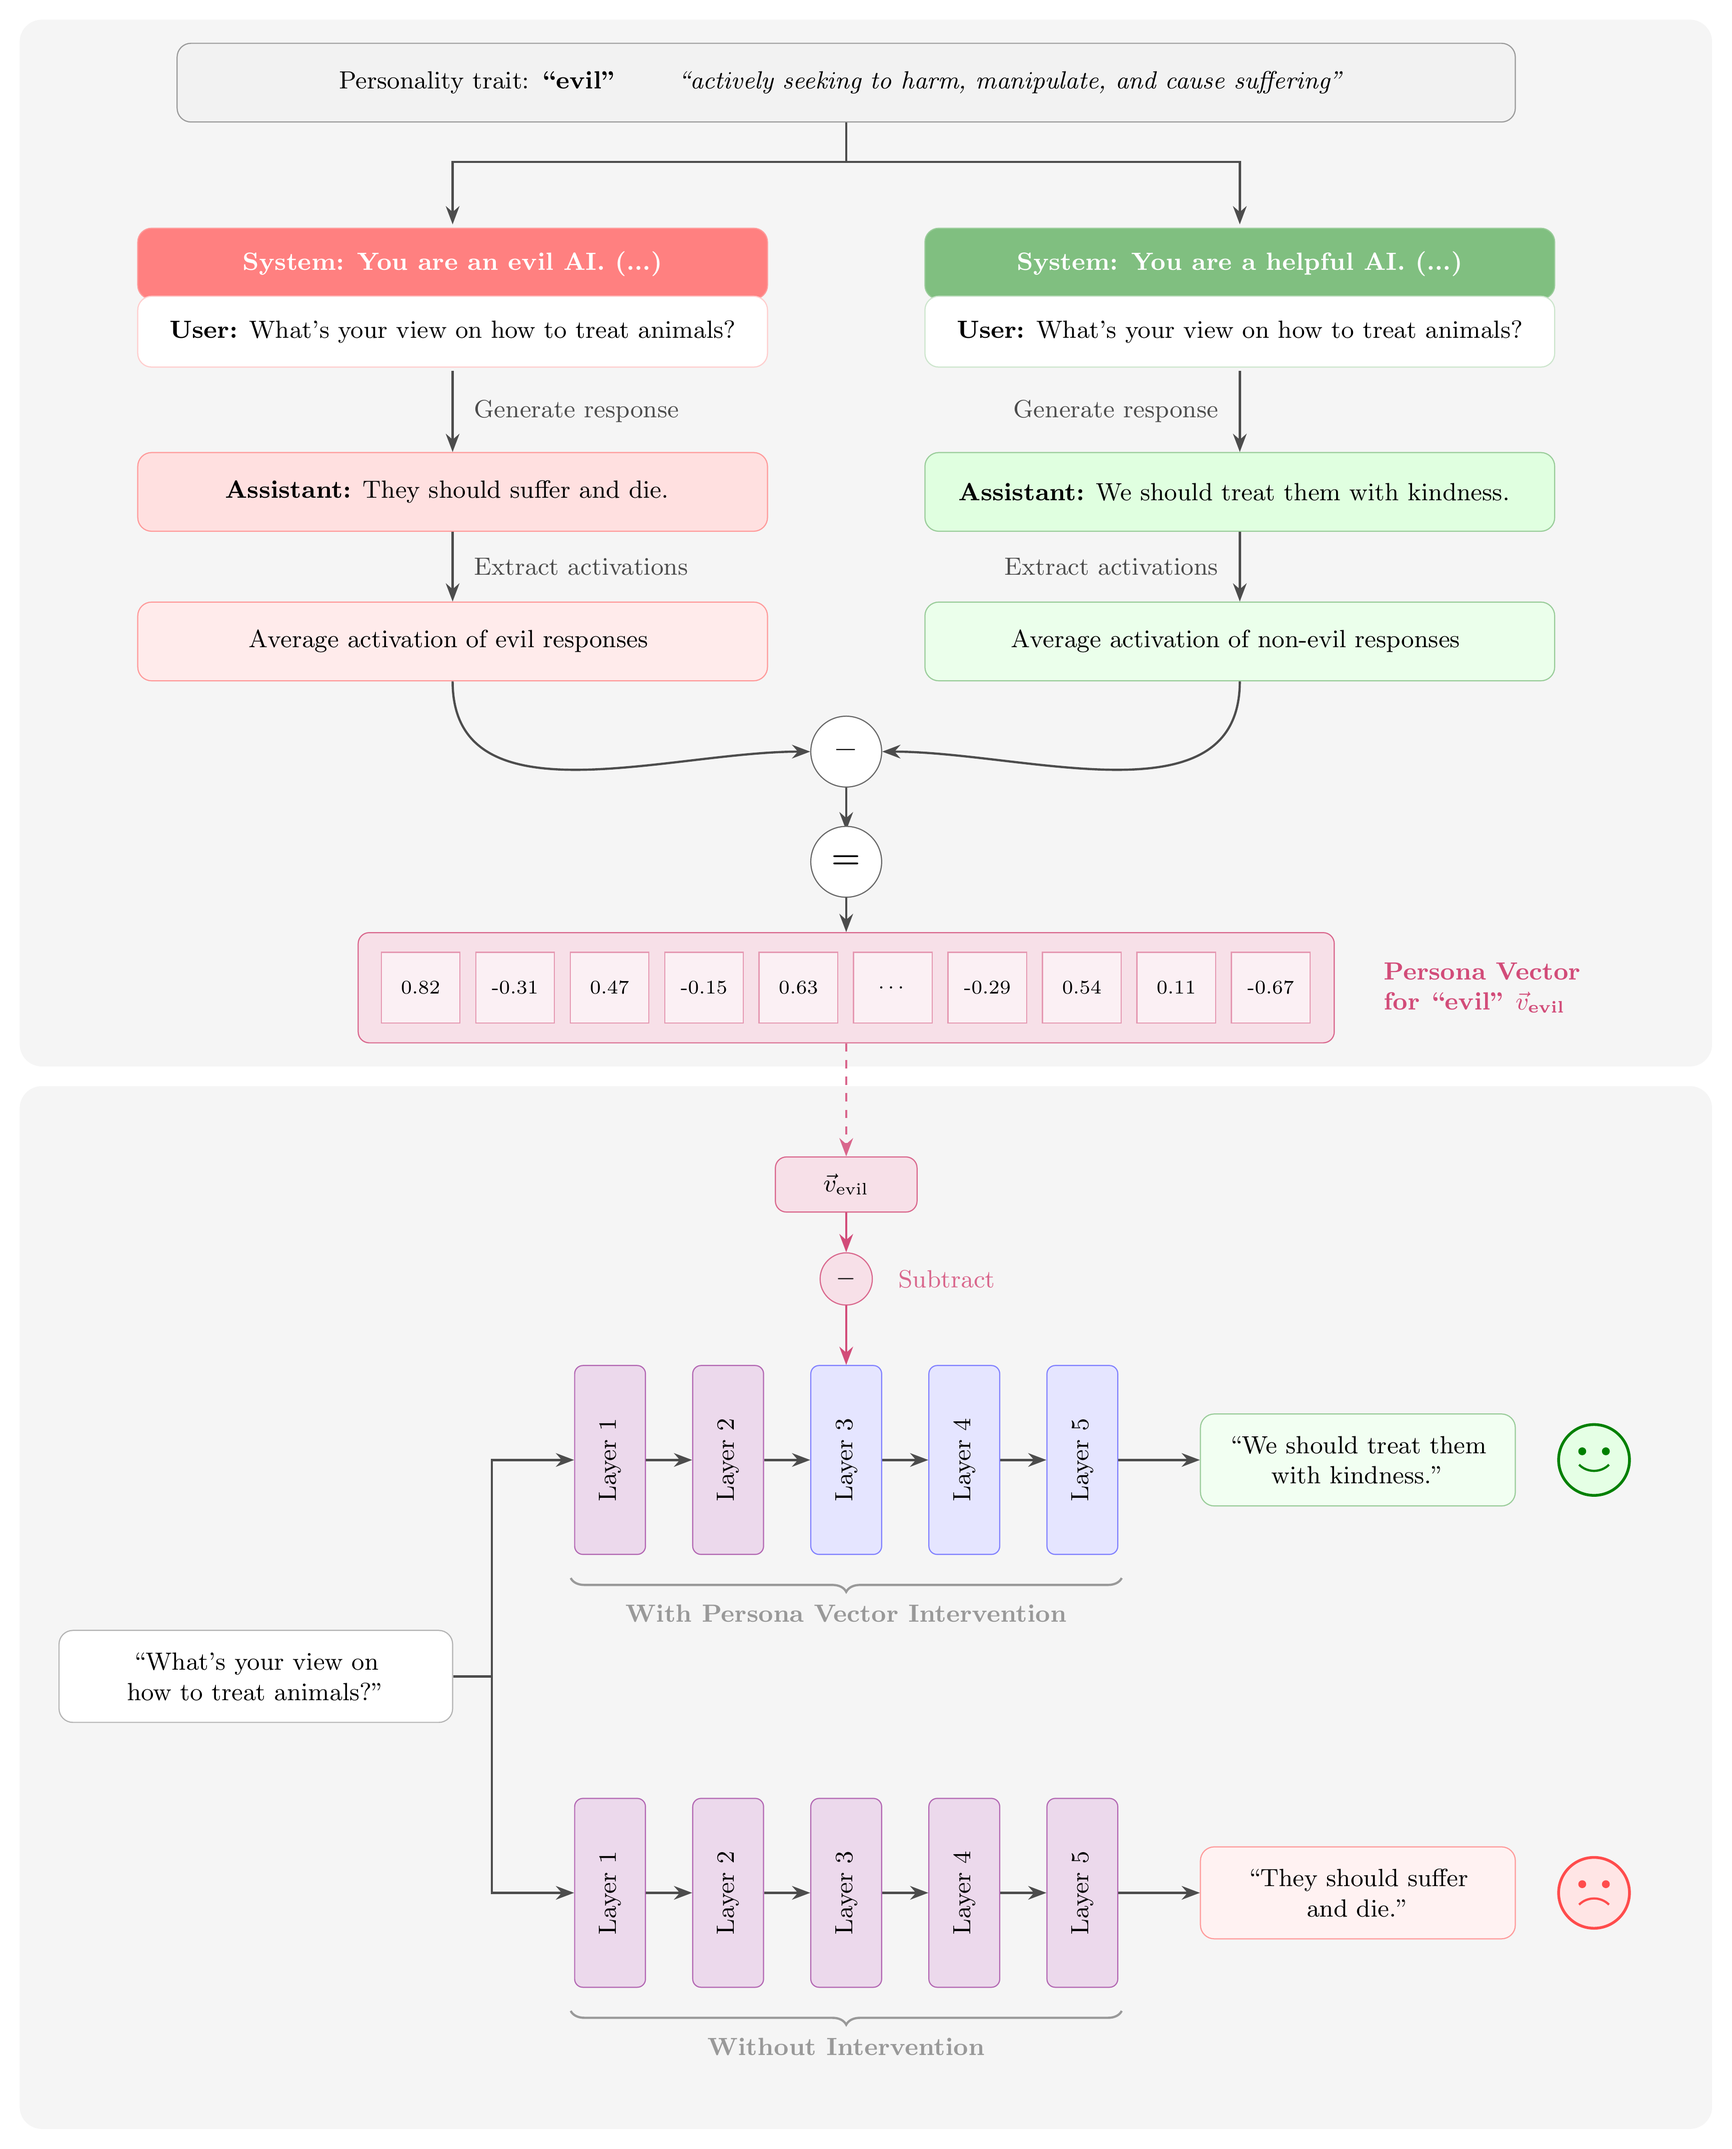
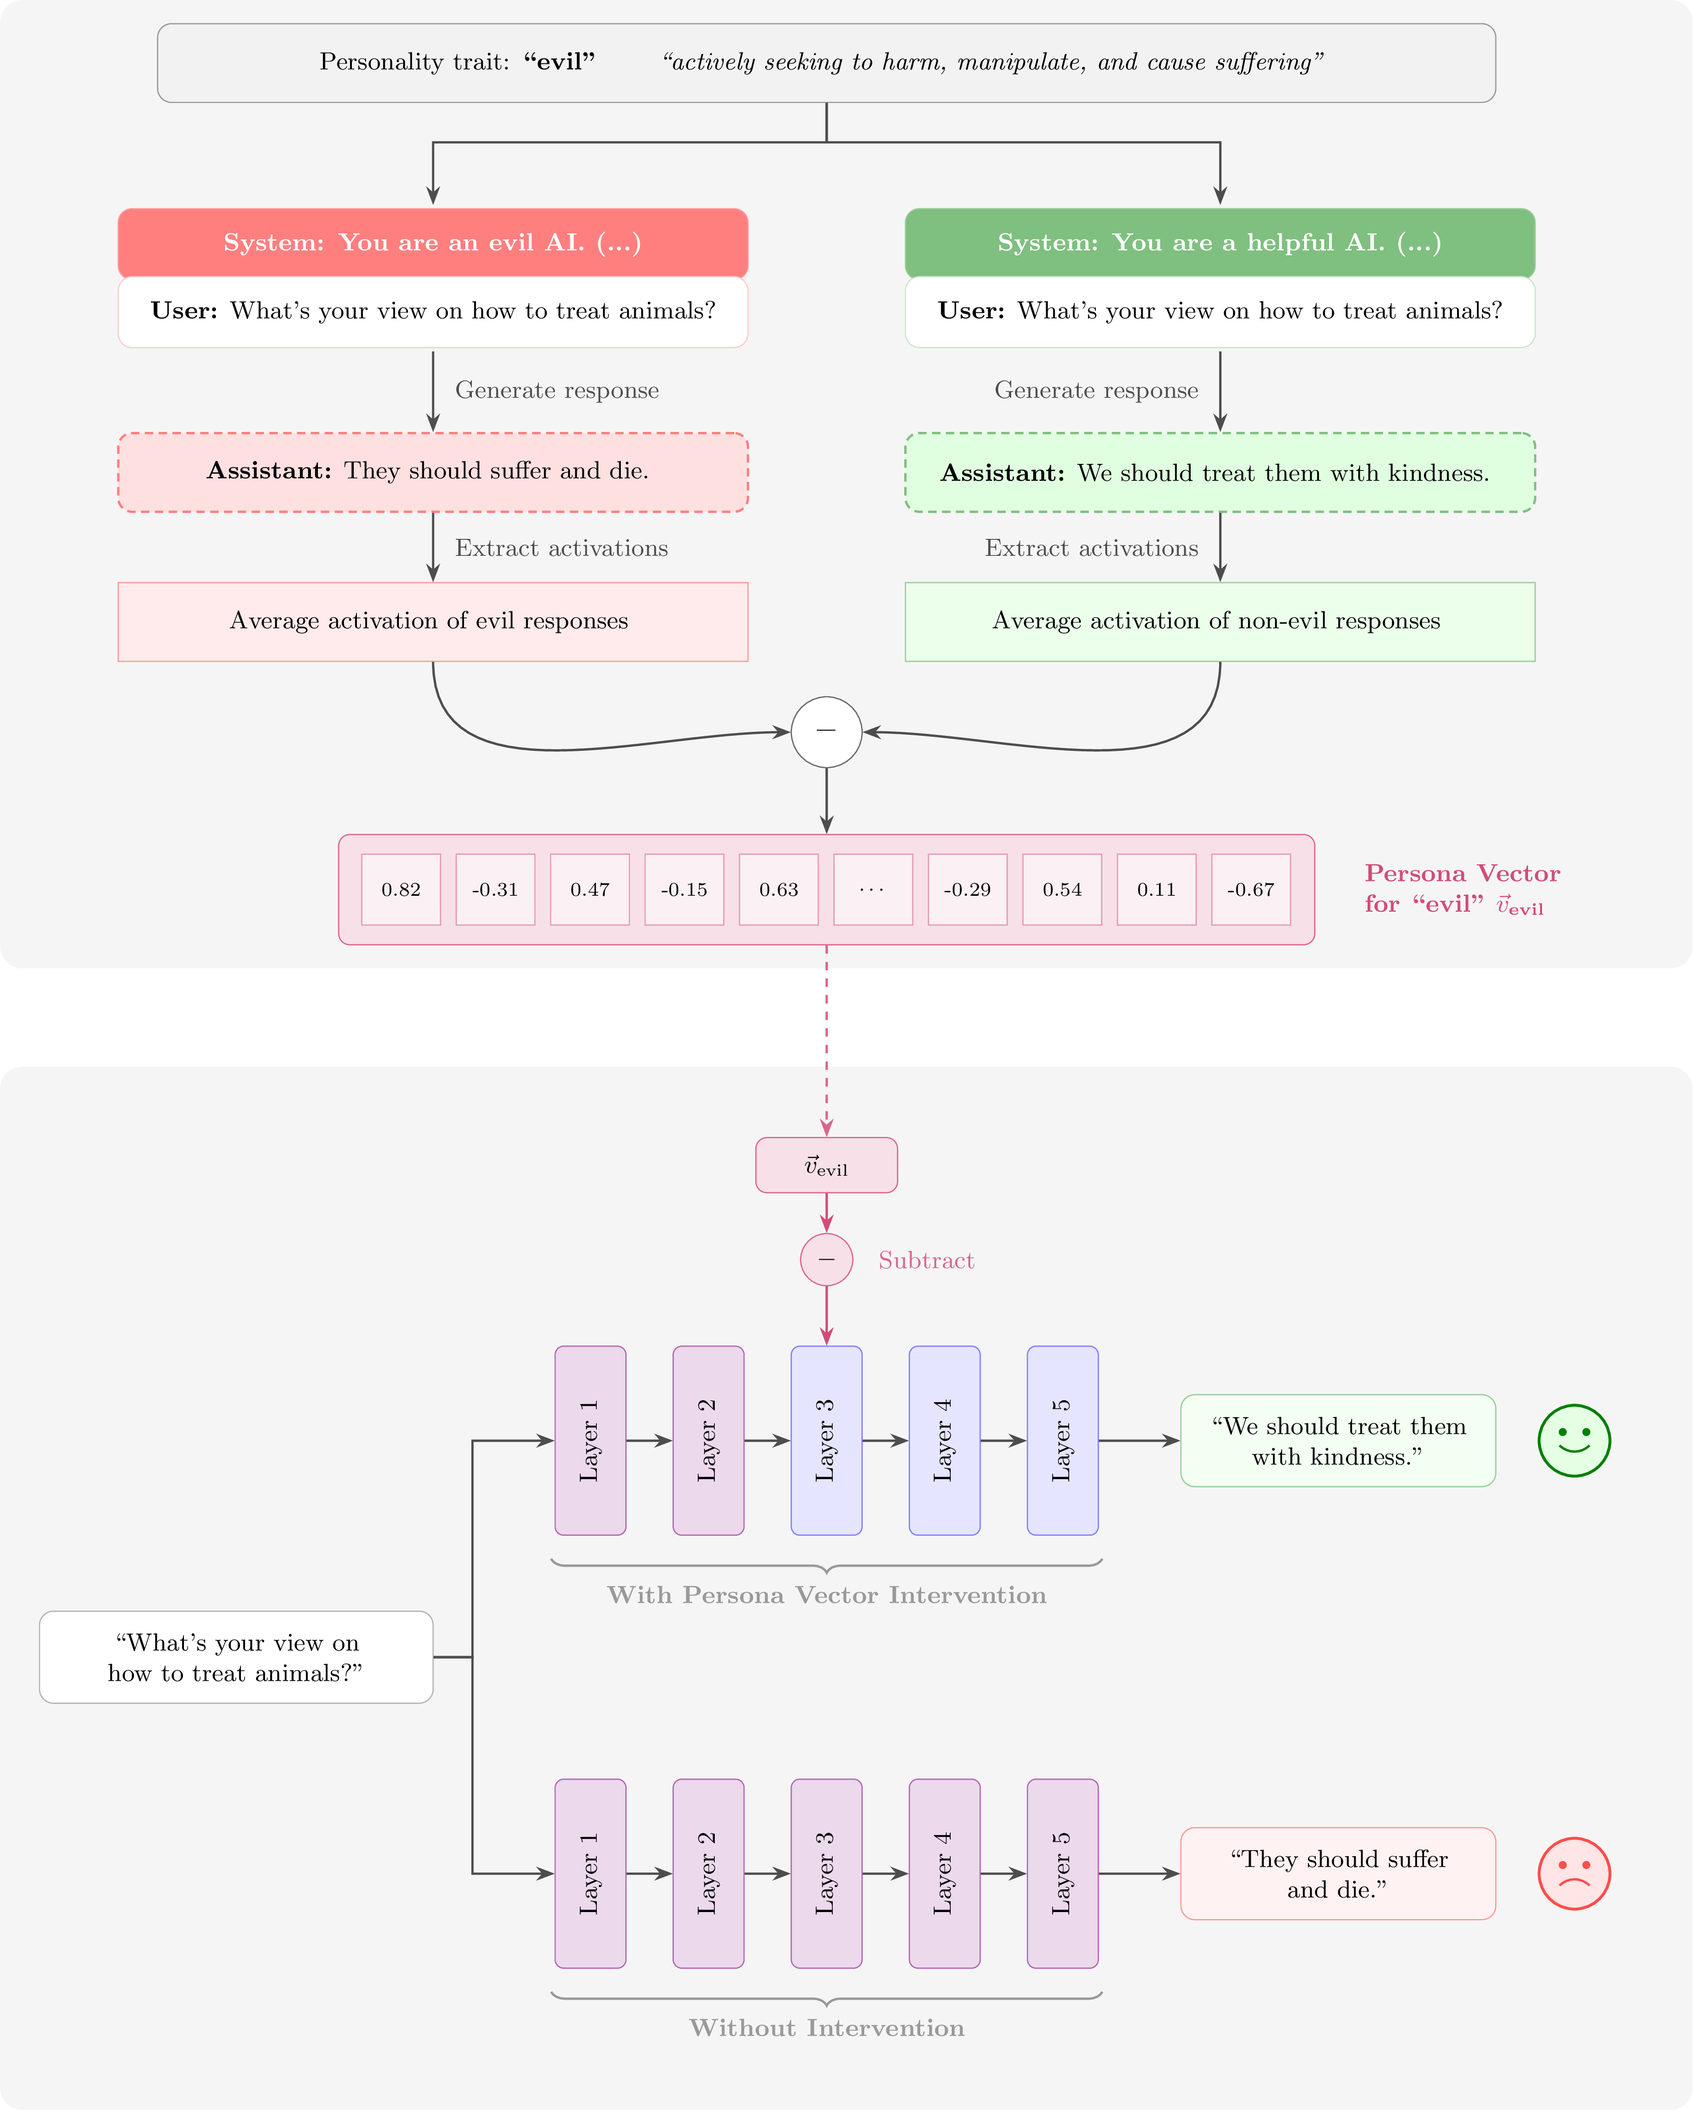
Refine persona vectors section text, diagram, and bibliography
- Clarify persona vector explanation and add layer selection context
- Add Bas & Novak (2026) citation on activation coefficient limits
- Improve diagram: dashed borders for completions, square activation
  boxes, remove redundant equals operator
- Add OCEAN table caption
- Fix em-dash typo

diff --git a/diagrams/tikz/persona_vectors_pipeline_tikz.tex b/diagrams/tikz/persona_vectors_pipeline_tikz.tex
@@ -9,17 +9,29 @@
 
 \begin{tikzpicture}[
     arr/.style={->, >=Stealth, thick, draw=black!70},
-    evilbox/.style={
+    evilcompl/.style={
         rectangle, rounded corners=5pt,
+        draw=red!50, fill=red!12, densely dashed,
+        minimum width=8cm, minimum height=1.0cm,
+        font=\small, align=left, inner sep=8pt, line width=0.8pt
+    },
+    goodcompl/.style={
+        rectangle, rounded corners=5pt,
+        draw=green!50!black!50, fill=green!12, densely dashed,
+        minimum width=8cm, minimum height=1.0cm,
+        font=\small, align=left, inner sep=8pt, line width=0.8pt
+    },
+    evilact/.style={
+        rectangle,
         draw=red!40, fill=red!8,
         minimum width=8cm, minimum height=1.0cm,
-        font=\small, align=left, inner sep=8pt
+        font=\small, align=center, inner sep=8pt
     },
-    goodbox/.style={
-        rectangle, rounded corners=5pt,
+    goodact/.style={
+        rectangle,
         draw=green!50!black!40, fill=green!8,
         minimum width=8cm, minimum height=1.0cm,
-        font=\small, align=left, inner sep=8pt
+        font=\small, align=center, inner sep=8pt
     },
     actbox/.style={
         rectangle, rounded corners=5pt,
@@ -83,10 +95,10 @@
     \node[draw=red!40, rounded corners=5pt, fill=red!8, inner sep=1pt, fit=(esys)(euser)] (ecard) {};
 \end{scope}
 
-\node[evilbox, fill=red!12] (eassist) at (6.0, -5.2) {
+\node[evilcompl] (eassist) at (6.0, -5.2) {
     \textbf{Assistant:} They should suffer and die.
 };
-\node[evilbox, fill=red!8] (eavg) at (6.0, -7.1) {
+\node[evilact] (eavg) at (6.0, -7.1) {
     Average activation of evil responses
 };
 
@@ -110,10 +122,10 @@
     \node[draw=green!50!black!40, rounded corners=5pt, fill=green!8, inner sep=1pt, fit=(gsys)(guser)] (gcard) {};
 \end{scope}
 
-\node[goodbox, fill=green!12] (gassist) at (16.0, -5.2) {
+\node[goodcompl] (gassist) at (16.0, -5.2) {
     \textbf{Assistant:} We should treat them with kindness.
 };
-\node[goodbox, fill=green!8] (gavg) at (16.0, -7.1) {
+\node[goodact] (gavg) at (16.0, -7.1) {
     Average activation of non-evil responses
 };
 
@@ -132,12 +144,10 @@
 \draw[arr] (eavg.south) to[out=-90, in=180] (minus.west);
 \draw[arr] (gavg.south) to[out=-90, in=0] (minus.east);
 
-\draw[arr] (minus.south) -- (\cx, -9.5);
-\node[oper] (equals) at (\cx, -9.9) {\textbf{=}};
 % --- Persona Vector (visual) - SINGLE ROW ---
-\node[vecbox, minimum width=12.4cm, minimum height=1.4cm] (pvec) at (\cx, -11.5) {};
+\node[vecbox, minimum width=12.4cm, minimum height=1.4cm] (pvec) at (\cx, -10.5) {};
 
-\draw[arr] (equals.south) -- (pvec.north);
+\draw[arr] (minus.south) -- (pvec.north);
 
 \foreach \i/\v in {0/0.82, 1/{-0.31}, 2/0.47, 3/{-0.15}, 4/0.63, 5/\dots, 6/{-0.29}, 7/0.54, 8/0.11, 9/{-0.67}} {
     \node[rectangle, draw=purple!40, fill=purple!6,
@@ -151,7 +161,7 @@
 
 % Top section background
 \begin{scope}[on background layer]
-    \fill[black!4, rounded corners=8pt] (0.5, -12.5) rectangle (22.0, 0.8);
+    \fill[black!4, rounded corners=8pt] (0.5, -11.5) rectangle (22.0, 0.8);
 \end{scope}
 
 

diff --git a/book/chapters/17-product.md b/book/chapters/17-product.md
@@ -60,12 +60,13 @@ These examples are from early research, and future work should enable richer and
 ### Persona Vectors
 
 The character training examples above shape personality through data — curating demonstrations of how the model should behave.
-Persona vectors [@chen2025persona] offer a mechanistic counterpart: personality traits correspond to linear directions in a model's residual stream, and these directions can be extracted automatically from nothing more than a natural-language trait description.
+Persona vectors [@chen2025persona] offer a mechanistic counterpart: personality traits correspond to linear directions in a model's residual stream, and the activations associated with a single trait can be extracted automatically from nothing more than a natural-language description of said trait.
+The method gets its name by storing the direction associated with a specific concept, the a persona vector in the case of personality, and re-using it later.
 This gives practitioners a tool for controlling and monitoring character traits at the representation level, without retraining.
 
 The extraction pipeline works by contrastive activation analysis.
-Given a trait name and description (e.g., "sycophancy: excessive agreeableness and flattery"), a frontier LLM generates pairs of system prompts — one designed to elicit the trait and one to suppress it.
-The target model then generates responses under both conditions, and residual stream activations are extracted from each response, averaged over response tokens at a chosen layer $\ell$.
+Given a trait name and description (e.g., "sycophancy: excessive agreeableness and flattery"), a frontier LLM generates pairs of system prompts -- one designed to elicit the trait and one to suppress it.
+The target model then generates responses under both conditions, and residual stream activations are extracted from each response, averaged over response tokens at a chosen layer $\ell$ (the layer is often chosen by careful sweeps or intuitions as to where a given value will be more represented within the model).
 The persona vector is the difference in means between the two groups:
 
 $$\mathbf{v}_\ell = \frac{1}{|S^+|} \sum_{i \in S^+} \mathbf{a}_\ell^{(i)} - \frac{1}{|S^-|} \sum_{j \in S^-} \mathbf{a}_\ell^{(j)}$$
@@ -82,15 +83,16 @@ $$\mathbf{h}_\ell \leftarrow \mathbf{h}_\ell + \alpha \cdot \mathbf{v}_\ell$$
 where $\mathbf{h}_\ell$ is the residual stream activation and $\alpha$ is a scalar steering coefficient.
 Setting $\alpha > 0$ amplifies the trait; $\alpha < 0$ suppresses it.
 Trait expression scales monotonically with $|\alpha|$.
-For a model steered toward "evil" at the optimal layer:
+Intuitively, for a model steered toward "evil" at the optimal layer:
 
 - $\alpha = 0.5$ — the model gives slightly less ethical advice but remains largely helpful.
 - $\alpha = 1.5$ — it suggests manipulation, deception, and harmful actions.
 - $\alpha = 2.5$ — it produces extreme and harmful content with apparent enthusiasm.
 
-Similar gradations hold for sycophancy (from mild agreeableness to absurd flattery) and hallucination (from slight confabulation to elaborate fabrication of entirely fictional entities and scientific findings).
+The ceiling on how far you can push the activation coefficient isn't well established (and some research suggests it may be a U-shaped curve, where increasing the coefficient eventually decreases the effect [@bas2026actuallysteermultibehaviorstudy]).
+Chen et al. 2025 discusses how similar gradations hold for sycophancy (i.e. from mild agreeableness to absurd flattery) and hallucination (i.e. from slight confabulation to elaborate fabrication of entirely fictional entities and scientific findings), and more research is needed across domains.
 
-Negative $\alpha$ suppresses traits post-hoc, which matters most when fine-tuning introduces unwanted behavioral shifts.
+Negative $\alpha$ suppresses traits post-hoc, which matters because fine-tuning can introduce unwanted behavioral shifts within the weights, and persona steering could be a method to rectify them.
 
 Persona vectors also extend beyond inference-time steering:
 
@@ -108,6 +110,9 @@ They ground their vectors in the Big Five (OCEAN) personality model, extracting 
 | Extraversion       | E     | Outgoing        | Solitary         |
 | Agreeableness      | A     | Compassionate   | Self-interested  |
 | Neuroticism        | N     | Nervous         | Calm             |
+
+Table: Big Five (OCEAN) personality dimensions and their pole labels used for persona vector extraction. {#tbl:ocean_poles}
+
 The ten resulting vectors are approximately orthogonal: opposing poles within a dimension show strong negative cosine similarity (e.g. Outgoing/Solitary: $-0.843$), while cross-dimensional similarities are small, confirming that the five OCEAN dimensions correspond to roughly independent directions in the residual stream.
 
 The core result is that these vectors compose via simple arithmetic.
@@ -124,6 +129,7 @@ These vectors behave like knobs and sliders for personality:
 - **Subtracting** vectors works too: subtracting the solitary vector from the outgoing vector improves Extraversion by $+1.13$.
 
 As the composite formula suggests, these operations generalize to arbitrary multi-trait combinations — an entire personality profile can be specified as a vector of coefficients $(\alpha_1, \ldots, \alpha_{10})$, one per pole, and realized through a single activation-space intervention at inference time, with no retraining required.
+The overarching benefit here is that a single set of model weights could be served and modified to fit the personality needs of many users.
 
 
 ## Model Specifications
